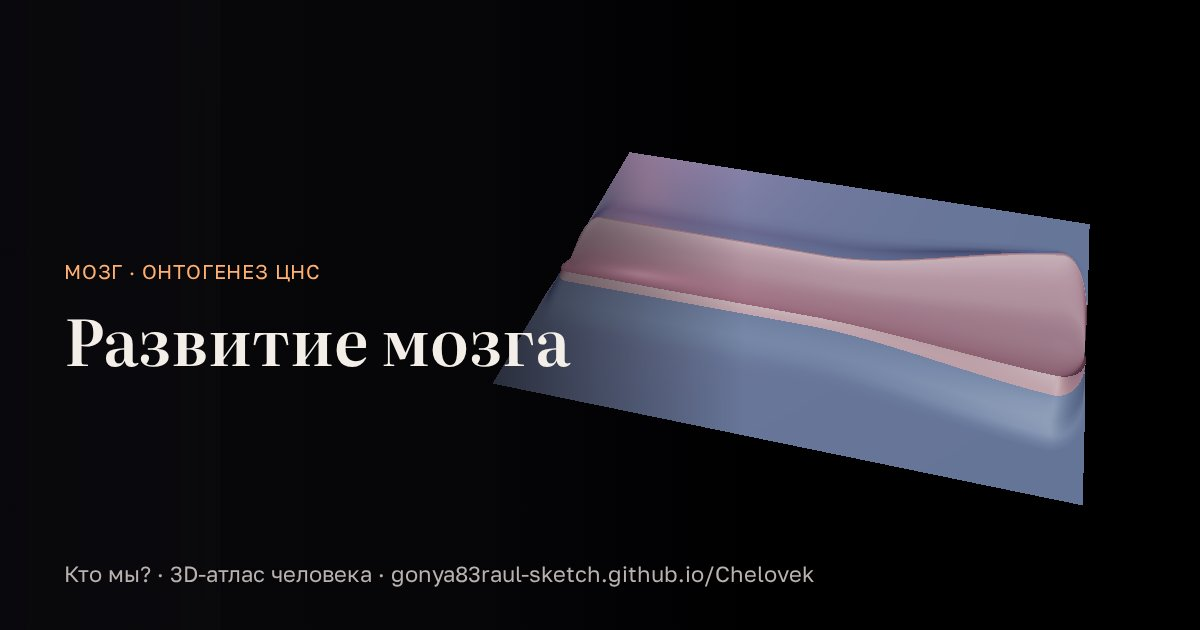
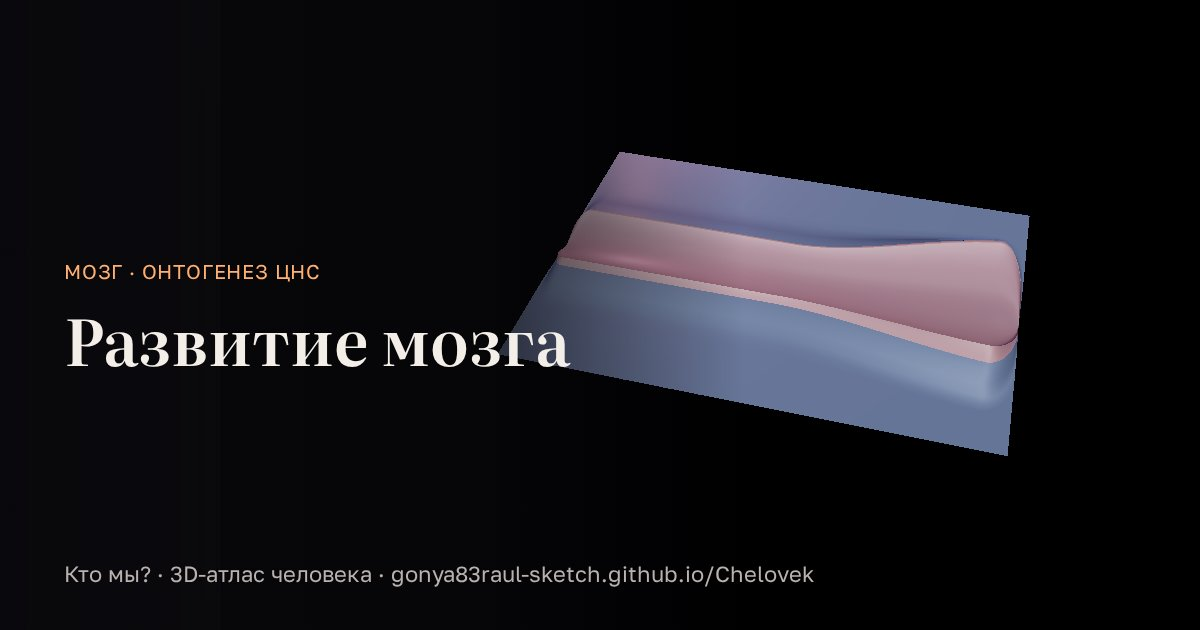
app47: develop, repro; превью

Changed region(s): [[0.4008, 0.2413, 0.925, 0.8143]]

diff --git a/tools/build.py b/tools/build.py
@@ -75,7 +75,7 @@ ledes = [f'{t}: {mm["lede"]}' for t, mm in META.items() if 'lede' in mm]
 L0 = 'const TOPIC_LEDE = {}; // заполняет tools/build.py'
 assert page.count(L0) == 1
 page = page.replace(L0, 'const TOPIC_LEDE = { ' + ', '.join(ledes) + ' };', 1)
-APP = 'app46'   # меняется при каждой публикации со старой структурой кэша
+APP = 'app47'   # меняется при каждой публикации со старой структурой кэша
 # модели: сайт грузит models/<имя>.bin; если есть только старые .txt — перепаковать, без .bin сборку не выпускать
 MODELS = ['skeleton', 'muscles', 'vision', 'digest', 'repro']
 MDIR = os.path.join(ROOT, 'out', 'models')
